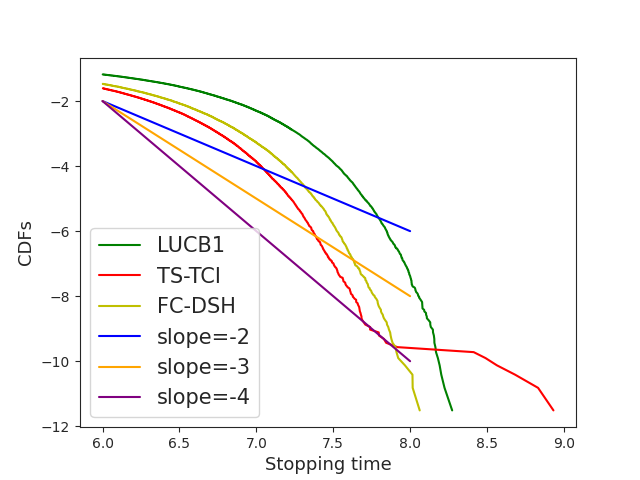
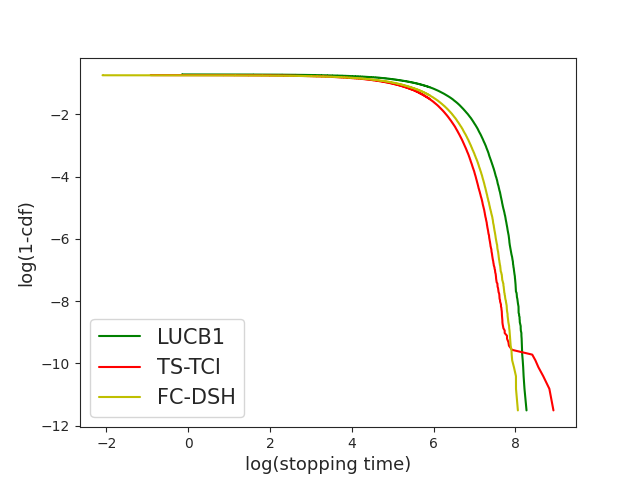
update

diff --git a/plot_logcdf.py b/plot_logcdf.py
@@ -18,8 +18,8 @@ version = "v12"
 algo_names = ['se_orig', 'se_t4', 'lucb', 'tstci', 'fcsh-1.01',
               'fcsh-1.1', 'fcsh-2', ]
 algo_names = ['lucb', 'tstci', 'fcsh-1.01', 'fcsh-1.1']
-algo_names = ['lucb_p', 'lucb_t4', 'tstci', 'fcsh-1.01']
-algo_names = ['lucb_t0']
+algo_names = ['lucb', 'tstci', 'fcsh-1.01']
+# algo_names = ['lucb']
 # algo_names = ['fcsh-1.01']
 # algo_names = ['lucb']
 # algo_names = ['tstci']
@@ -30,7 +30,7 @@ algo_names = ['lucb_t0']
 colors = ['g','r', 'y', 'b', 'orange', 'purple']
 
 max_iter = 999999
-n_trials = 1000000
+n_trials = 100000
 
 
 def make_model(sample, size=1000):
@@ -137,8 +137,8 @@ for algo_idx, algo_name in enumerate(algo_names):
 #     y = slope * (x - x0) + y0
 #     plt.plot(x, y, label=f"slope={slope}", color=colors[i+3])
 
-plt.xlabel('Stopping time', fontsize=13)
-plt.ylabel('CDFs', fontsize=13)
+plt.xlabel('log(stopping time)', fontsize=13)
+plt.ylabel('log(1-cdf)', fontsize=13)
 # plt.title(f'n_rigged = {n_rigged}', fontsize=13)
 # plt.xticks(np.arange(6, 8))
 

diff --git a/plot_cdf.py b/plot_cdf.py
@@ -29,7 +29,7 @@ algo_names = ['lucb', 'tstci', 'fcsh-1.01']
 colors = ['g','r', 'y', 'b', 'orange']
 
 max_iter = 999999
-n_trials = 1000
+n_trials = 100000
 
 
 def make_model(sample, size=1000):
@@ -115,7 +115,7 @@ for algo_idx, algo_name in enumerate(algo_names):
 
 
 plt.xlabel('Stopping time', fontsize=13)
-plt.ylabel('CDFs', fontsize=13)
+plt.ylabel('CDF', fontsize=13)
 # plt.xticks(np.arange(6, 8))
 
 plt.legend(fontsize=15)
